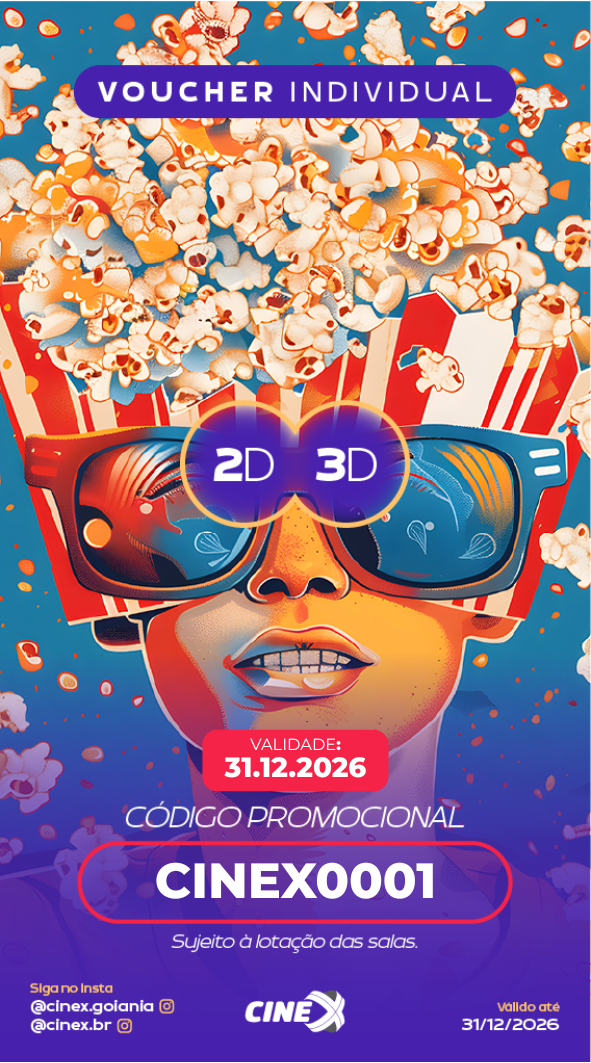
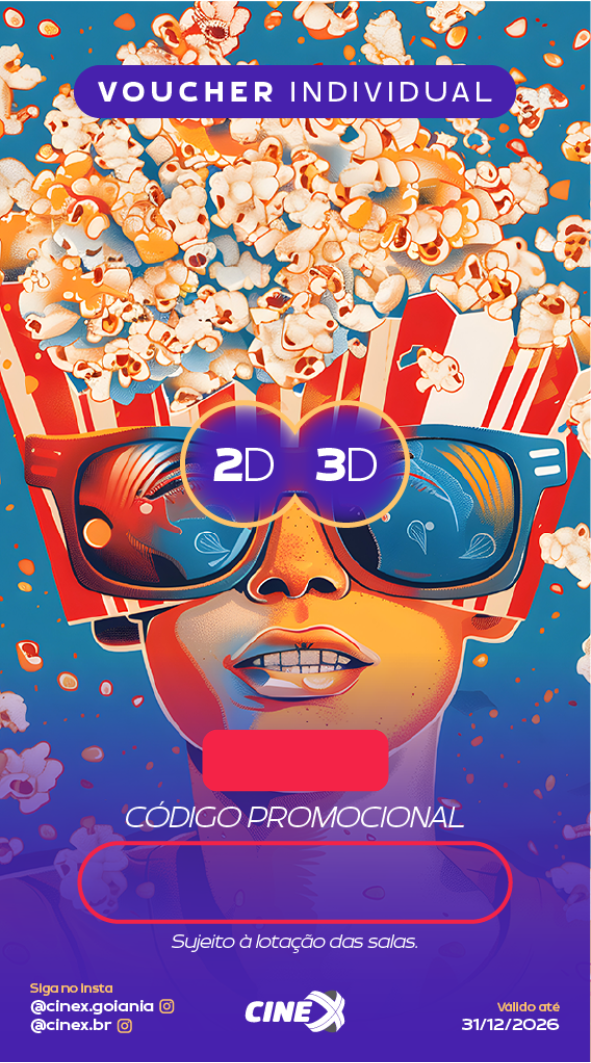
fix: arte correta do ingresso Empresa (SEMTEXTO) e posições do código/data

Changed region(s): [[0.2437, 0.8071, 0.731, 0.8692], [0.3655, 0.683, 0.6396, 0.7451]]

diff --git a/src/components/TicketArt.tsx b/src/components/TicketArt.tsx
@@ -17,8 +17,8 @@ const CORTESIAS_DATE_Y     = 0.712;   // % do topo onde cai a validade
 // ── Empresa ────────────────────────────────────────────────────────────────
 const EMPRESA_FRENTE       = '/EMPRESA_INGRESSO_FRENTE_SEMTEXTO.png';
 const EMPRESA_VERSO        = '/EMPRESA_INGRESSO_VERSO.png';
-const EMPRESA_CODE_Y       = 0.740;   // % do topo — campo CINEX0001
-const EMPRESA_DATE_Y       = 0.588;   // % do topo — campo 31.12.2026
+const EMPRESA_CODE_Y       = 0.815;   // % do topo — dentro da caixinha do código
+const EMPRESA_DATE_Y       = 0.578;   // % do topo — campo da data de validade
 
 function formatDate(data_validade?: string | null) {
   if (!data_validade) return '';
